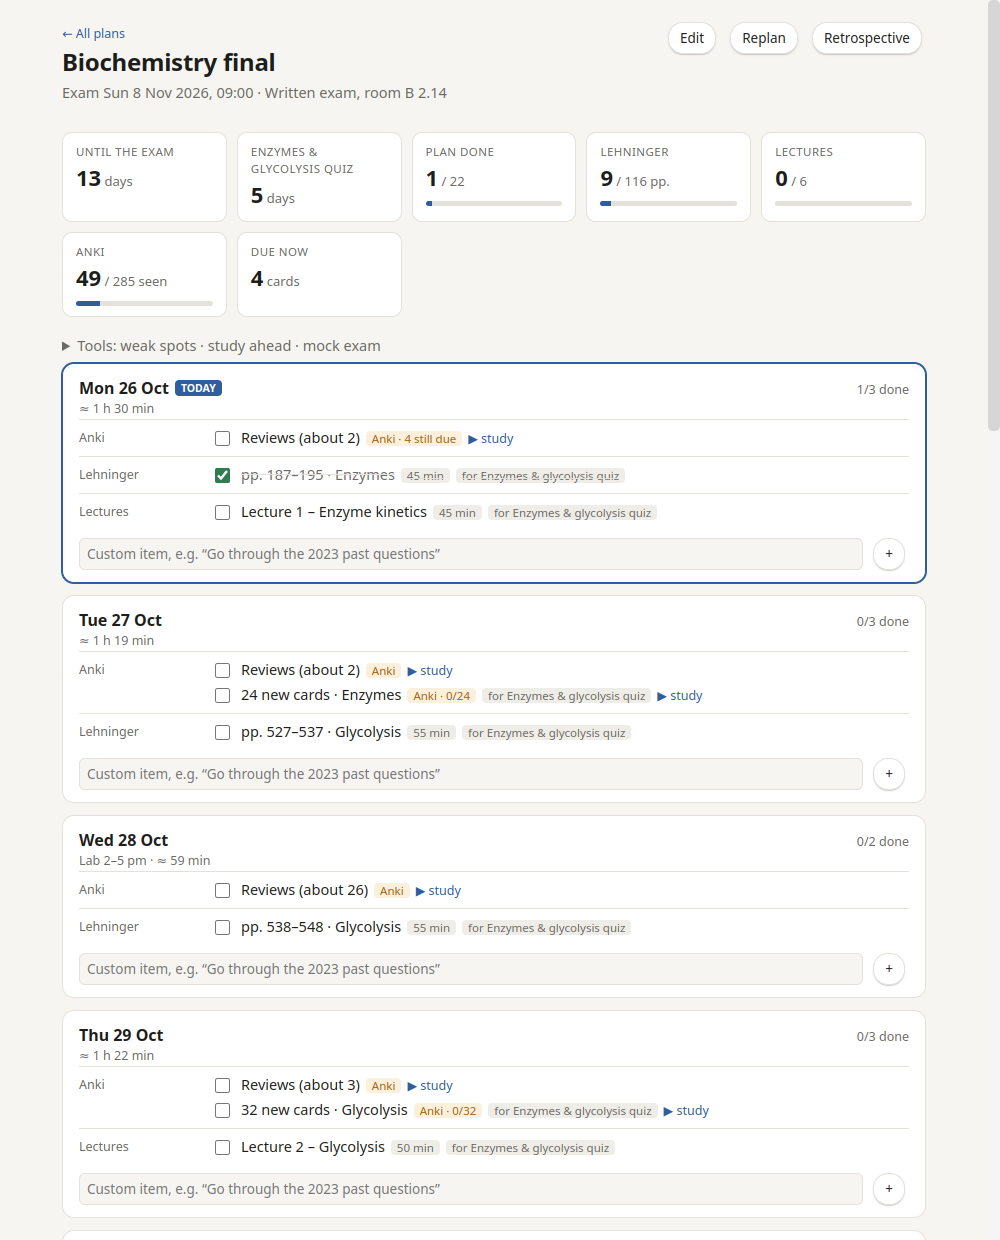
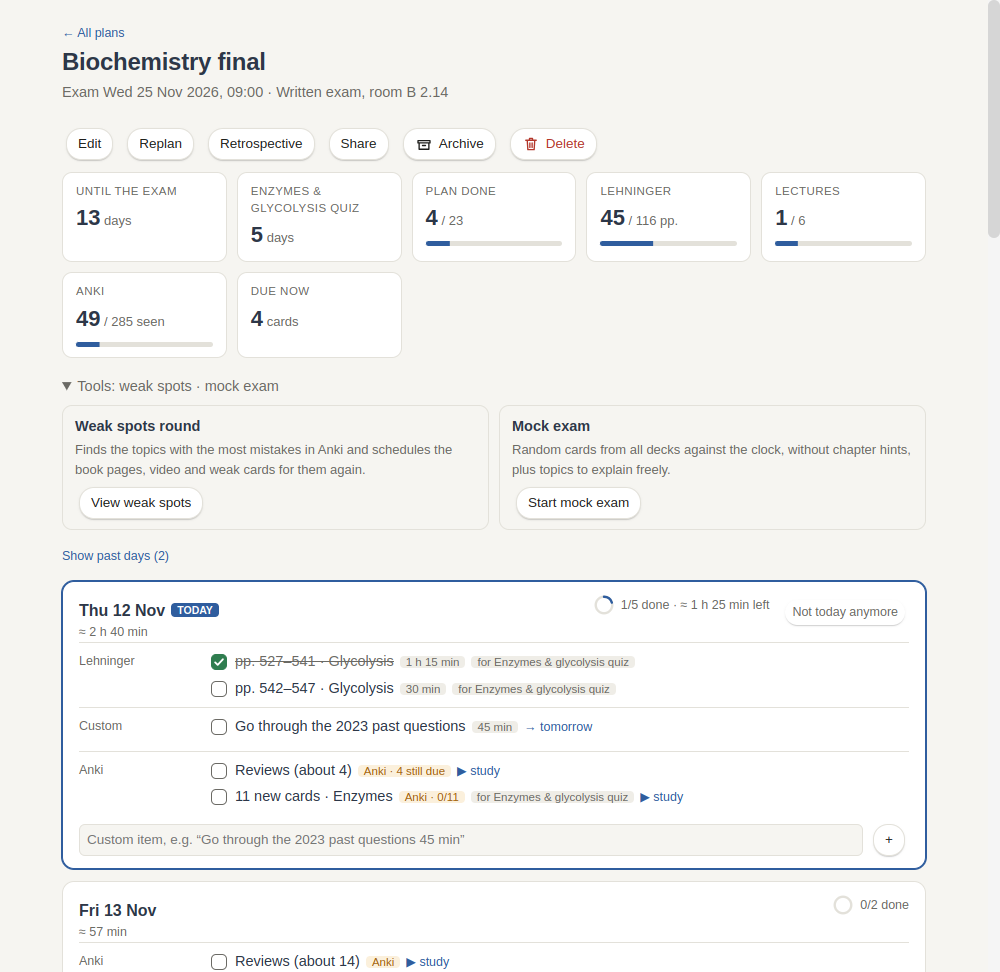
Screenshots of the new plan page and browser, safer PDF open in the notebook, controller guard
- README and AnkiWeb screenshots show 2.9.4 (demo data)
- Notebook: only real PDF files are handed to the system's opener
- Controller: a pad reporting fewer than 16 buttons no longer fails on every poll
- Study plan: day progress sits next to its button

Claude-Session: https://claude.ai/code/session_016DTRJ5TgZR8ALeVs3Gkpwm

diff --git a/addon/plan/web/lernplan.css b/addon/plan/web/lernplan.css
@@ -210,6 +210,7 @@ button.icon-btn { display: inline-flex; align-items: center; justify-content: ce
 button.icon-btn:hover { background: var(--soft); color: var(--fg); border-color: transparent; }
 button.icon-btn.danger:hover { color: var(--bad); }
 button.with-icon { display: inline-flex; align-items: center; gap: 6px; }
+.dhead > .dprog { margin-inline-start: auto; }
 .rest-btn { border: 1px solid var(--line); color: var(--muted); padding: 1px 9px; border-radius: 999px; white-space: nowrap; }
 .rest-btn:hover { color: var(--fg); border-color: var(--accent); }
 /* Dragging a custom item onto another day */

diff --git a/addon/notebook_sidebar.py b/addon/notebook_sidebar.py
@@ -2193,7 +2193,12 @@ class NotebookPanel(QWidget):
             self._add_pdf_dialog()
         elif payload.startswith("pdf:open:"):
             file_path = payload[len("pdf:open:"):]
-            _open_file_externally(file_path)
+            # The path comes from the page (and so possibly from an imported notebook):
+            # hand the system only real PDF files, never a program or a shortcut.
+            if file_path.lower().endswith(".pdf") and os.path.isfile(file_path):
+                _open_file_externally(file_path)
+            else:
+                showInfo(_("Could not open file: {}").format(file_path))
         elif payload.startswith("pdf:render:"):
             file_path = payload[len("pdf:render:"):]
             self._render_pdf_inline(file_path)

diff --git a/addon/integrations/contanki/contanki.py b/addon/integrations/contanki/contanki.py
@@ -192,10 +192,16 @@ class Contanki(AnkiWebView):
             self.on_error("No buttons")
             return
 
+        assert self.profile is not None
+        # Smart Study: without the browser's standard layout a pad reports fewer than
+        # 16 buttons; the D-pad lines below then failed on every poll (IndexError).
+        if self.profile.controller.parent == "8BitDo Zero (X Input)":
+            buttons += [False] * (16 - len(buttons))
+            axes += [0.0] * (4 - len(axes))
+
         while len(self.buttons) < len(buttons):
             self.buttons.append(buttons[len(self.buttons)])
 
-        assert self.profile is not None
         if (
             self.profile.controller.parent == "8BitDo Zero (X Input)"
             and any(axes)

diff --git a/README.md b/README.md
@@ -99,7 +99,7 @@ Switch them on or off under *Tools → Smart Study → Settings → Add-ons* or 
 |---|---|
 | ![Basics](screenshots/edit-basics.png) | ![Sources](screenshots/edit-sources.png) |
 
-| Topics with linked pages, lectures and subdecks | Tools: weak spots, study ahead, mock exam |
+| Topics with linked pages, lectures and subdecks | Tools: weak spots, mock exam |
 |---|---|
 | ![Topics](screenshots/edit-topics.png) | ![Tools](screenshots/tools.png) |
 
@@ -107,17 +107,17 @@ Switch them on or off under *Tools → Smart Study → Settings → Add-ons* or 
 
 ![Retrospective](screenshots/review.png)
 
-**Workspace**: notebook with PDF viewer, mind maps, AI assistant and website sidebar, all next to your Anki cards
+**Workspace**: notebook with PDF viewer, mind maps, AI assistant and browser, all next to your Anki cards
 
 | Notebook with PDF viewer | Mind maps |
 |---|---|
 | ![Notebook](screenshots/workspace-notebook.png) | ![Mind map](screenshots/workspace-mindmap.png) |
 
-| AI assistant | Website sidebar (DuckDuckGo) |
+| AI assistant | Browser: tabs, address field, favourites |
 |---|---|
 | ![AI assistant](screenshots/workspace-ai-assistant.png) | ![Website](screenshots/workspace-website.png) |
 
-**Study plan window**: all your plans, streak and activity at a glance
+**Study plan window**: today's items, progress, and Archive / Delete in reach
 
 ![Study plan window](screenshots/workspace-study-plan.png)
 
